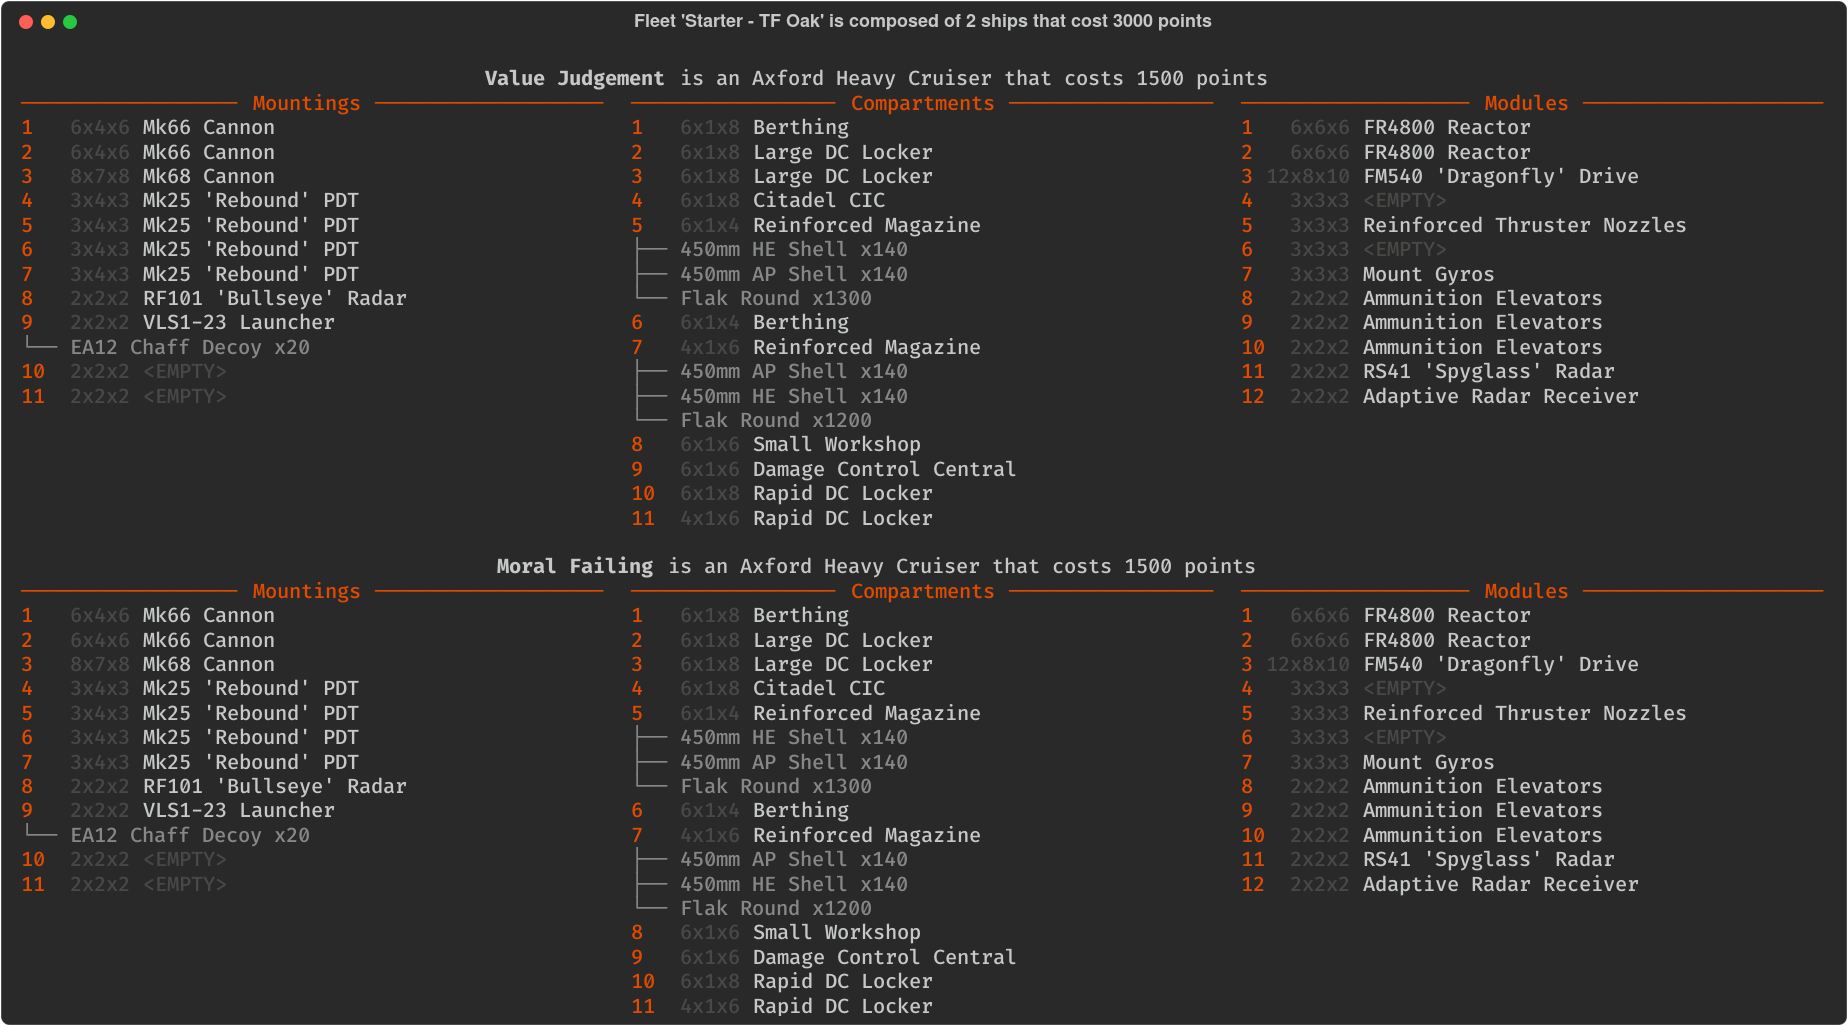
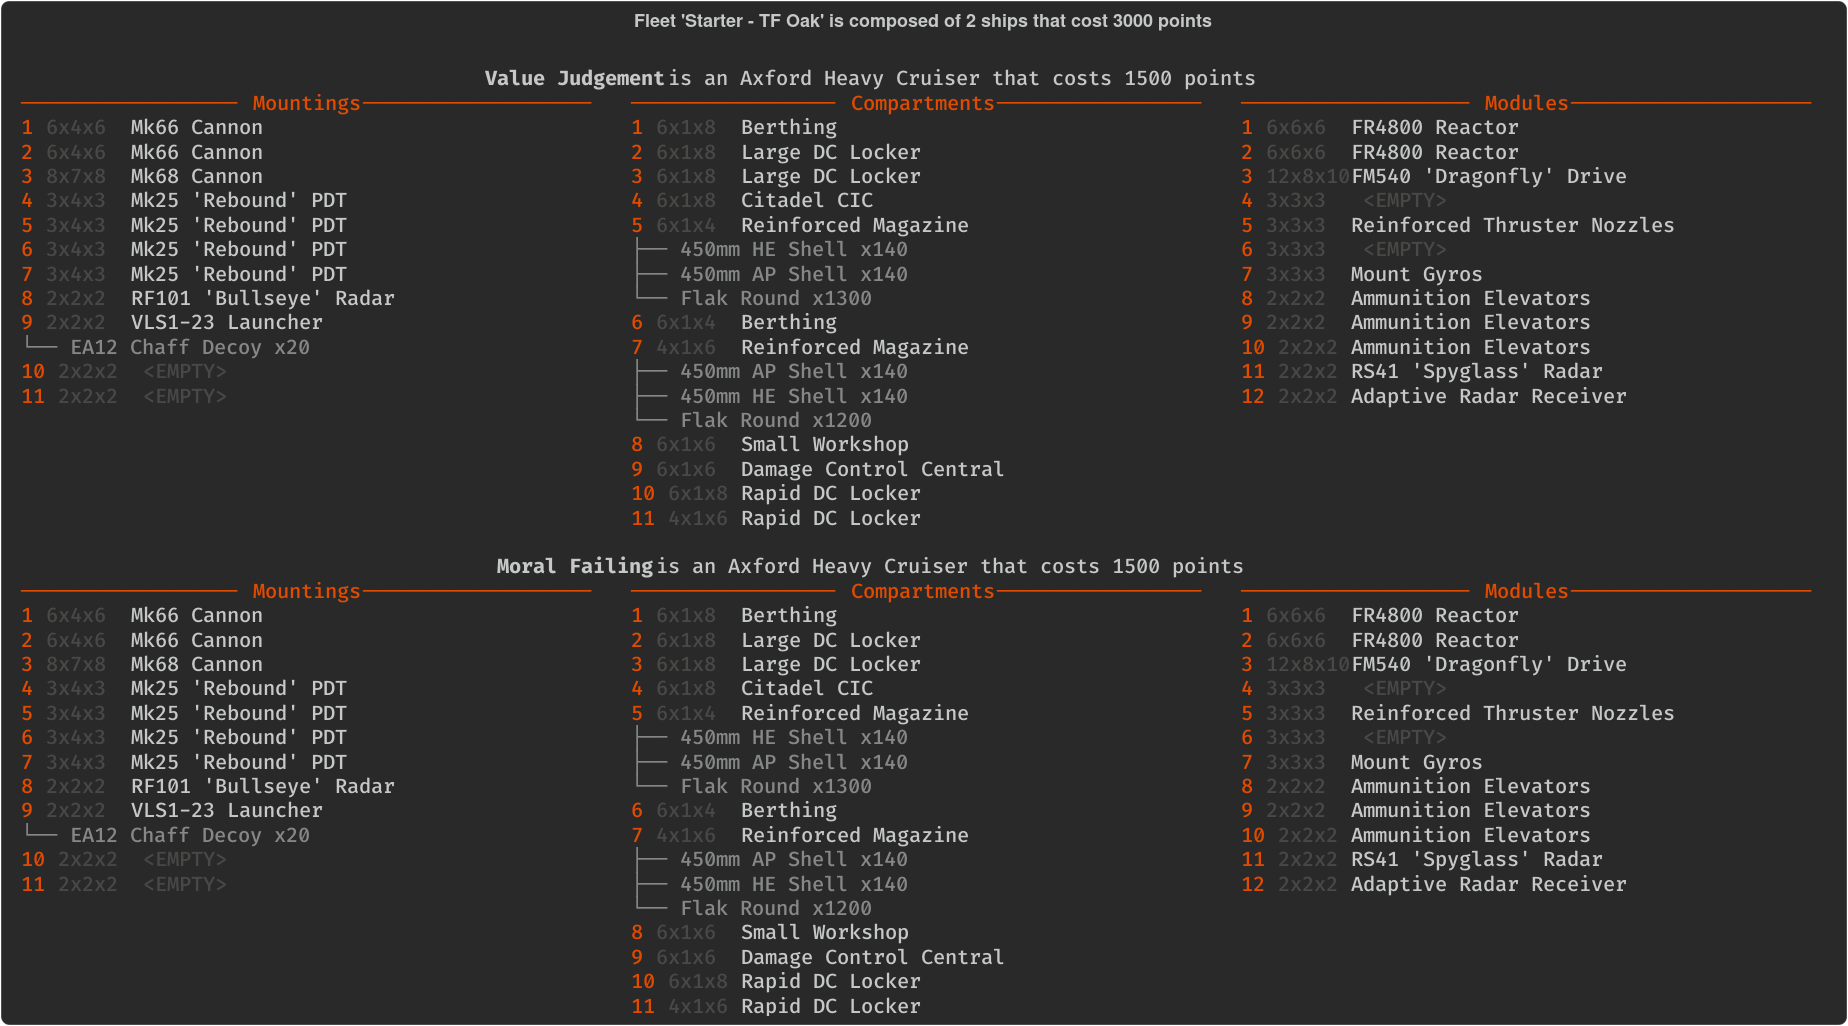
Clean SVG output prior to conversion

diff --git a/nfcli/writer.py b/nfcli/writer.py
@@ -1,9 +1,11 @@
+import logging
 import os
 import tempfile
 from pathlib import Path
 from typing import TYPE_CHECKING, List, TextIO
 
 import cairosvg
+import xmltodict
 from rich.console import Console
 from rich.text import Text
 
@@ -36,8 +38,13 @@ def get_printer(num_of_ships: int, is_valid: bool) -> FleetPrinter:
 
 def write_file(console: Console, title: str, png_file: str):
     svg_content = console.export_svg(title=title, clear=True)
+    svg_dict = xmltodict.parse(svg_content)
+    try:
+        del svg_dict["svg"]["g"][0]
+    except KeyError:
+        logging.warning("Failed to clean SVG output.")
     console.set_alt_screen(False)
-    cairosvg.svg2png(bytestring=svg_content, write_to=png_file)
+    cairosvg.svg2png(bytestring=xmltodict.unparse(svg_dict), write_to=png_file)
 
 
 def write_ship(ship: "Ship", png_file: str):
